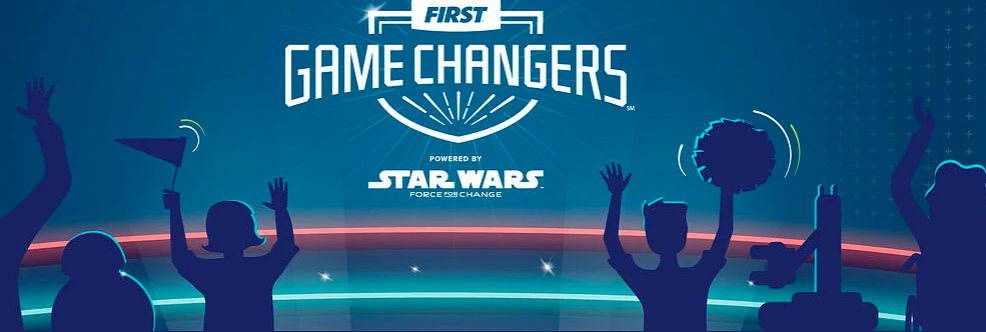
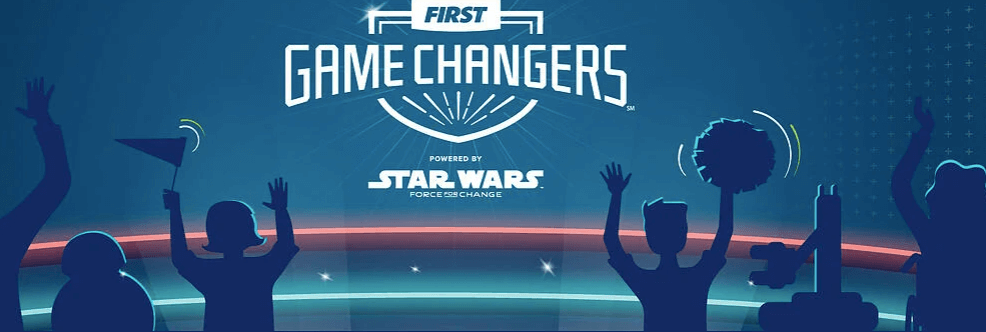
Files compressed for better load time and server load effeciency

diff --git a/html/assets/js/main.js b/html/assets/js/main.js
@@ -13,7 +13,7 @@
 document.addEventListener('DOMContentLoaded', (e)=>{
 	setTimeout(()=>{
 		splash.classList.add('display-none');
-	}, 1400);
+	}, 1500);
 })
 
 	$(function() {
